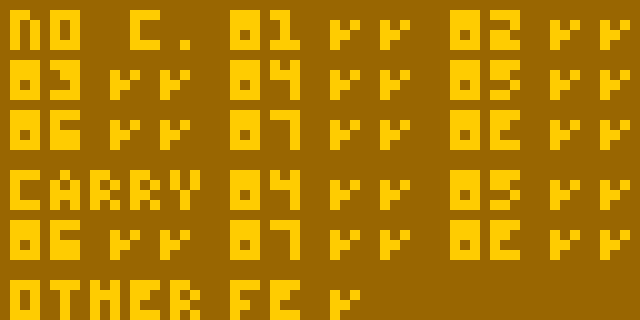
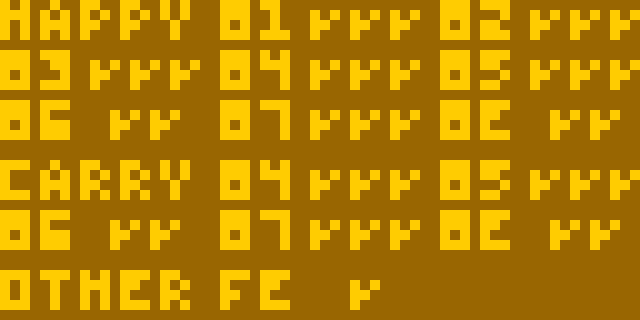
Update flags README and screenshot

diff --git a/README.md b/README.md
@@ -172,16 +172,17 @@ this:
 ![The flags test](./pictures/flags.png)
 
 Each code on the screen corresponds to an opcode, and shows if the output value
-is correct (first checkmark) and if the flag is correct (second checkmark). If
-you see a cross instead of a checkmark in any of these spots, you have an issue
-in your interpreter logic.
+is correct (first checkmark), if the flag is correct (second checkmark, if
+present) and if the order in which the vF register is read and written to is
+correct (third checkmark, if present). If you see a cross instead of a checkmark
+in any of these spots, you have an issue in your interpreter logic.
 
-The top part (that starts with "no c." for "no carry") checks the output values
-and flags of the following opcodes, in the case where we **don't** expect an
-overflow, carry or shifted out bit:
+The top part (that starts with "HAPPY" for "happy path") checks the behaviour of
+the following opcodes, in the case where we **don't** expect an overflow, carry
+or shifted out bit:
 
 ```
-No c.  8XY1   8XY2
+HAPPY  8XY1   8XY2
 8XY3   8XY4   8XY5
 8XY6   8XY7   8XYE
 ```
@@ -195,12 +196,11 @@ No c.  8XY1   8XY2
 * `8XY7` - `vY =- vX`
 * `8XYE` - `vY <<= vX` or `vX <<= vX` depending on version
 
-The bottom part (that starts with "carry") checks the output values and flags of
-the following opcodes, in the case that there **is** an overflow, carry or
-shifted out bit:
+The bottom part (that starts with "CARRY") checks behaviour of the following
+opcodes, in the case that there **is** an overflow, carry or shifted out bit:
 
 ```
-Carry  8XY4   8XY5
+CARRY  8XY4   8XY5
 8XY6   8XY7   8XYE
 ```
 
